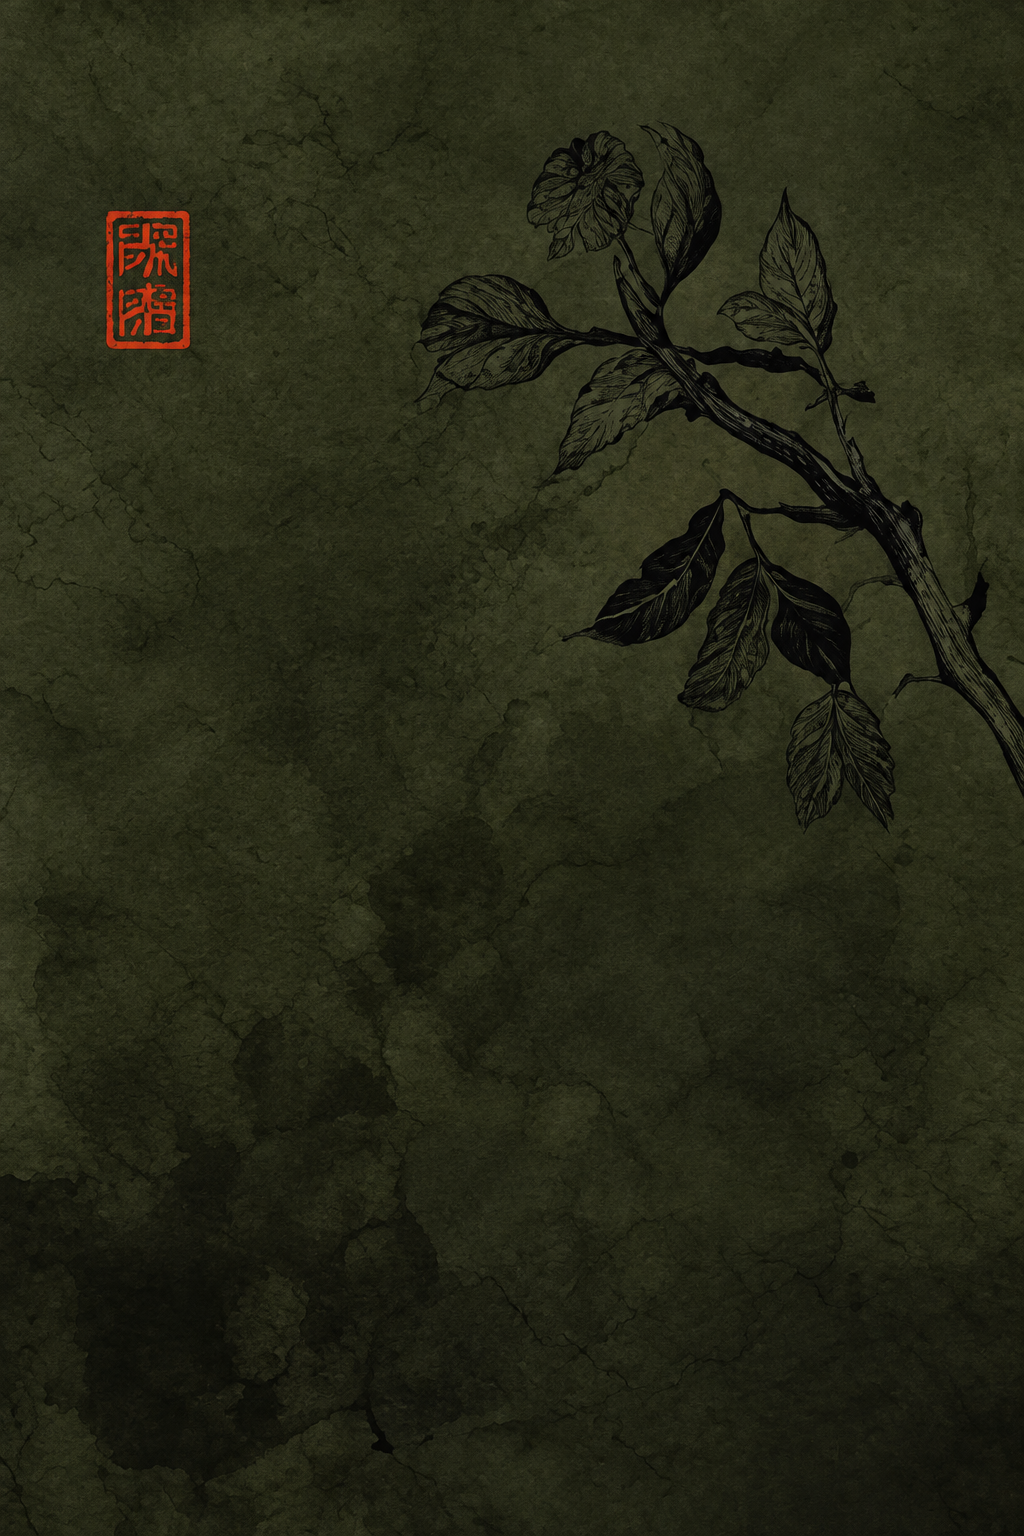
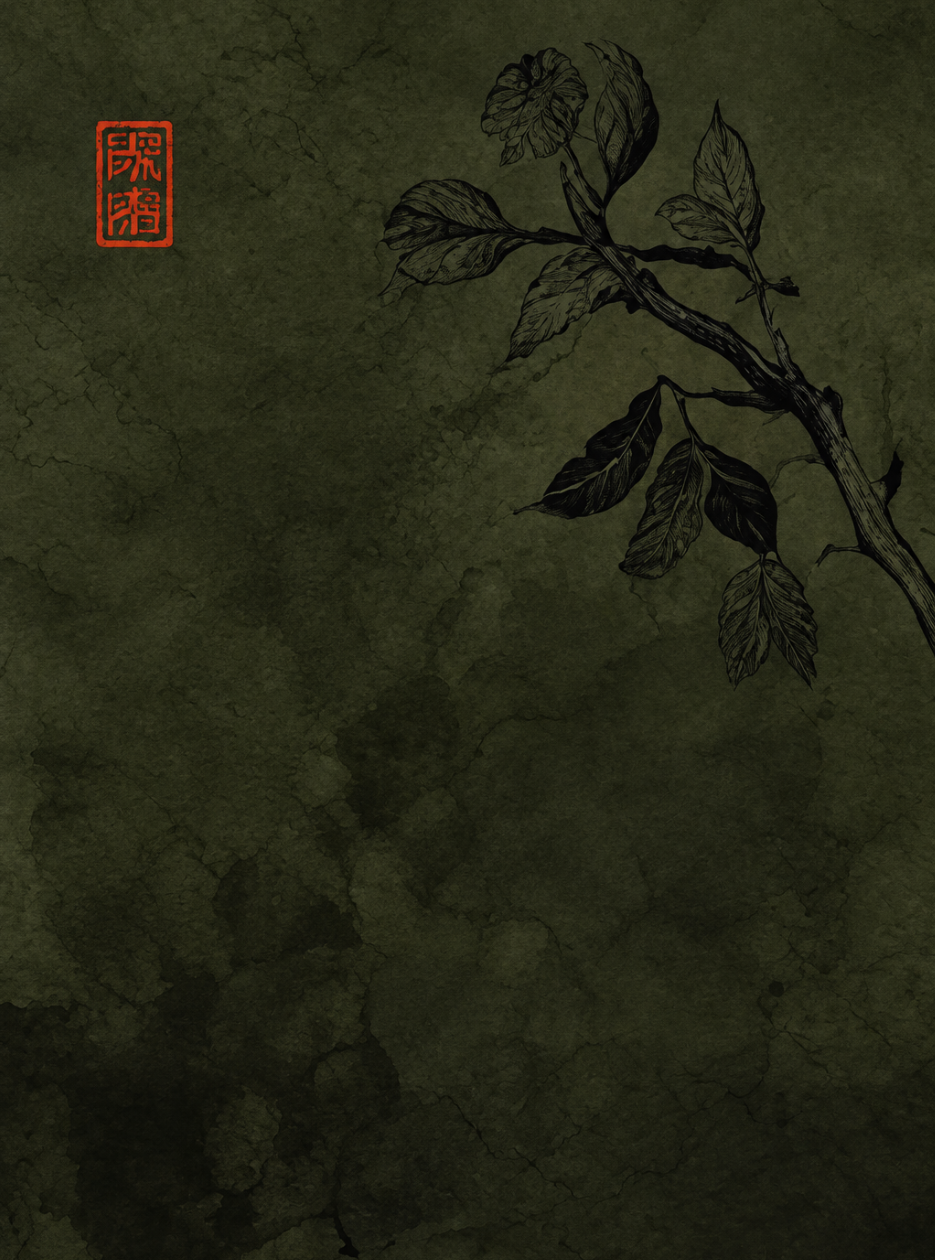
completed section 2

diff --git a/src/components/homeSec2.jsx b/src/components/homeSec2.jsx
@@ -1,1 +1,80 @@
 import Plate from "../assets/section1.png"
+import Background from "../assets/section2.png"
+import Drink from "../assets/section3.png"
+
+export default function Section2() {
+  return (
+    <section className="grid w-full grid-cols-1 bg-esencia-black md:grid-cols-3">
+
+      {/* Left Hero */}
+      <div className="group relative h-[60vh] min-h-6500px] overflow-hidden">
+        <img
+          src={Plate}
+          alt="Esencia signature dish"
+          className="absolute inset-0 h-full w-full object-cover transition-transform duration-1000 group-hover:scale-105"
+        />
+      </div>
+
+      {/* Center Hero */}
+      <a
+        className="group relative h-[60vh] min-h-[600px] overflow-hidden"
+      >
+        <img
+          src={Background}
+          alt="About Us"
+          className="absolute inset-0 h-full w-full object-cover transition-transform duration-1000 group-hover:scale-105"
+        />
+
+        <div className="absolute inset-0 bg-gradient-to-t from-esencia-black/95 via-esencia-black/40 to-transparent" />
+
+        <div className="absolute bottom-12 left-10 right-10 z-10 px-6">
+          
+          <h2 className="mb-7 text-5xl font-thin uppercase leading-[0.9] lg:text-6xl uppercase">
+            More
+            <br />
+            Than A Meal
+            <hr className=" w-[60px] border-t-1 border-solid border-gray-300 my-5" />
+          </h2>
+
+            <span id="meal" className="mb-5 block text-[14px] tracking-[0.28em] leading-8 font-bondoni">
+                Esencia is a reflection of place, people,<br/>
+                and posibility. Rooted in heritage,<br/>
+                shaped by travel, and inspired by the<br/>
+                energy of San Antonio, our menu<br/>
+                brings unexpected flavors into harmony.
+            </span>
+
+          <span className=" pb-2 font-manrope text-[14px] font-semibold uppercase tracking-[0.2em]">
+            Our Story →
+          </span>
+        </div>
+      </a>
+
+      {/* Right Hero */}
+      <a
+        className="group relative h-[60vh] min-h-[600px] overflow-hidden"
+      >
+        <img
+          src={Drink}
+          alt="Drink"
+          className="absolute inset-0 h-full w-full object-cover transition-transform duration-1000 group-hover:scale-105"
+        />
+
+        <div className="absolute inset-0 bg-gradient-to-t from-esencia-black/95 via-esencia-black/40 to-transparent" />
+
+        <div className="absolute top-5 left-105 z-10">
+          <span className="mb-5 block text-[13px] uppercase tracking-[0.28em] leading-8 uppercase">
+            Tradition<br/>
+            Meets<br/>
+            What's<br/>
+            Next.
+            <hr className=" w-[50px] border-t-1 border-solid border-gray-300 my-5" />
+          </span>
+
+          
+        </div>
+      </a>
+
+    </section>
+  )
+}

diff --git a/src/Pages/Home.jsx b/src/Pages/Home.jsx
@@ -1,8 +1,9 @@
 import BackgroundVideo from "../components/BackgroundVideo";
 import Navbar from "../components/Navbar";
+import SectionA from "../components/homeSec2"
 
 export default function Home() {
-  return (
+  return ( <>
     <BackgroundVideo>
       {/* NAVBAR */}
       <Navbar />
@@ -20,22 +21,22 @@ export default function Home() {
         <div className="flex flex-row gap-250">
 
             <div id="INfo-button">
-                        <p className="uppercase tracking-[5px] py-5">The Soul of Modern San antonio</p>
-                        <p className="leading-6">A culinary journey where Mexican and Chinese <br/>
-                        heritage, Spanish influence, and South Texas<br/>
-                        traditions converge.<br/>
-                        </p>
-                        <div id="button" className="pt-10">
-                            <a className=" text-white border inline-flex items-center px-10 py-3 mb-3 uppercase text-[12px] tracking-[2px] uppercase" href="https://www.opentable.com/r/esencia-san-antonio" target="_blank">
-                            Make A Reservastion
-                            </a>
+                <p className="uppercase tracking-[5px] py-5">The Soul of Modern San antonio</p>
+                <p className="leading-6">A culinary journey where Mexican and Chinese <br/>
+                 heritage, Spanish influence, and South Texas<br/>
+                traditions converge.<br/>
+                </p>
+            <div id="button" className="pt-10">
+                <a className="hover:bg-black text-white border inline-flex items-center px-10 py-3 mb-3 uppercase text-[12px] tracking-[2px] uppercase" href="https://www.opentable.com/r/esencia-san-antonio" target="_blank">
+                    Make A Reservastion
+                </a>
                             
-                        </div>
-                    </div>
-                    <div id="list" className="uppercase tracking-[4px] text-[12px] leading-7 pt-30">
-                            <p>Mexico<br/>
-                            China<br/>
-                            Spain<br/>
+            </div>
+            </div>
+            <div id="list" className="uppercase tracking-[4px] text-[12px] leading-7 pt-30">
+                <p>Mexico<br/>
+                 China<br/>
+                    Spain<br/>
                             Asia<br/>
                             Texas<br/>
                             Together<br/>
@@ -43,12 +44,14 @@ export default function Home() {
                             <hr className=" w-[40px] border-t-1 border-solid border-gray-300 my-5" />
                             </p>
                         </div>
-            
         </div>
-
-        
-         
       </div>
+
+      
     </BackgroundVideo>
+   
+    <SectionA />
+    </>
+    
   );
 }

diff --git a/src/components/BackgroundVideo.jsx b/src/components/BackgroundVideo.jsx
@@ -2,7 +2,7 @@ import bgvid from "../assets/WokVideo.mp4";
 
 export default function BackgroundVideo({ children }) {
   return (
-    <div className="relative min-h-screen w-full overflow-hidden">
+    <div className="relative  w-full overflow-hidden">
 
       {/* VIDEO */}
       <video
@@ -20,7 +20,7 @@ export default function BackgroundVideo({ children }) {
       <div className="absolute inset-0 bg-black/50 z-10" />
 
       {/* CONTENT */}
-      <div className="relative z-20 min-h-screen w-full">
+      <div className="relative z-20 min-h-200 w-full">
         {children}
       </div>
 

diff --git a/src/components/Navbar.jsx b/src/components/Navbar.jsx
@@ -21,7 +21,7 @@ export default function Navbar() {
                 
                 
             </ul>
-            <a className=" text-white bg-black border inline-flex items-center px-6  mb-3 uppercase text-[10px]" href="https://www.opentable.com/r/esencia-san-antonio" target="_blank">
+            <a className=" text-white bg-black border inline-flex items-center px-6  mb-3 uppercase text-[10px] hover:bg-transparent" href="https://www.opentable.com/r/esencia-san-antonio" target="_blank">
              Reservastions
             </a>
            

diff --git a/src/index.css b/src/index.css
@@ -8,6 +8,11 @@
   accent-color: #c3a15b;
 }
 
+@theme {
+  --font-bodoni: "Bodoni Moda", serif;
+  --font-manrope: "Manrope", sans-serif;
+}
+
 body{
   background-color: #303428;
   color: #e9e0d2;
@@ -20,3 +25,5 @@ h1, h2, h3, h4, h5, h6 {
   font-optical-sizing: auto;
   font-weight: 400; /* Adjust weight as needed (400-900) */
 }
+
+

diff --git a/src/App.jsx b/src/App.jsx
@@ -1,4 +1,5 @@
 import Home from "./Pages/Home";
+import Section1 from "./components/homeSec2"
 
 export default function App(){
   return (
